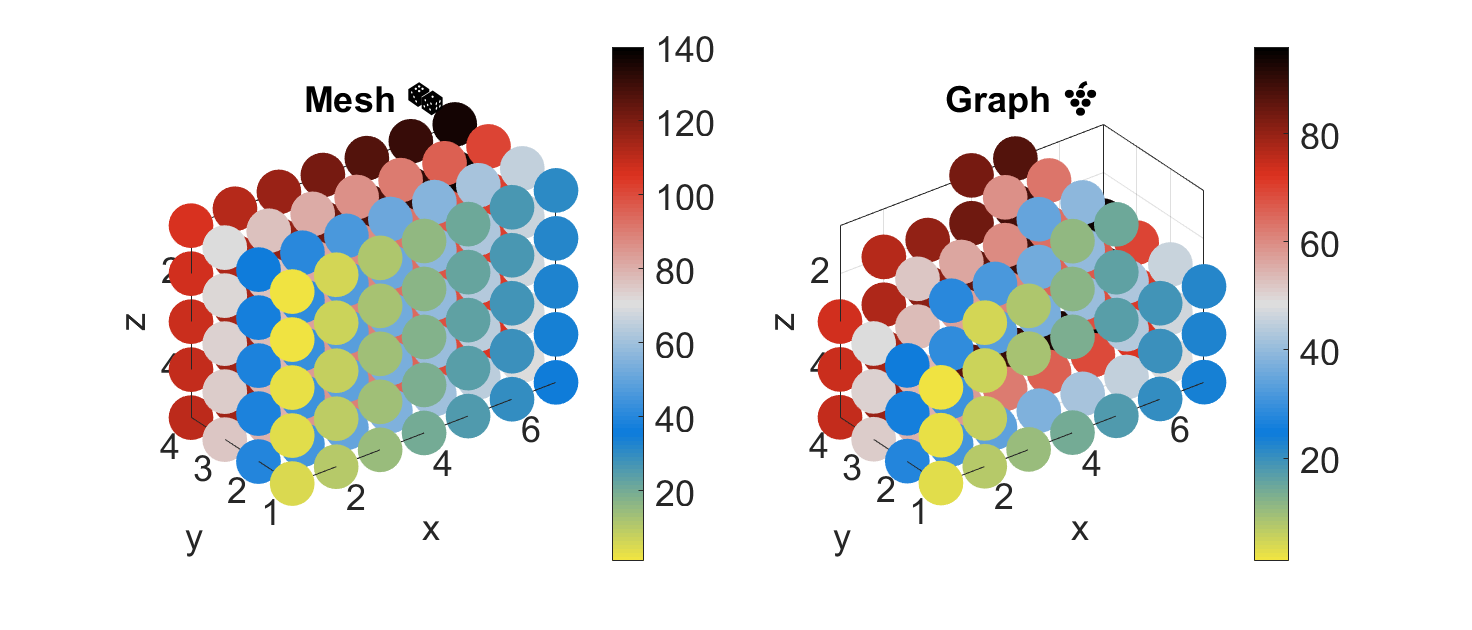
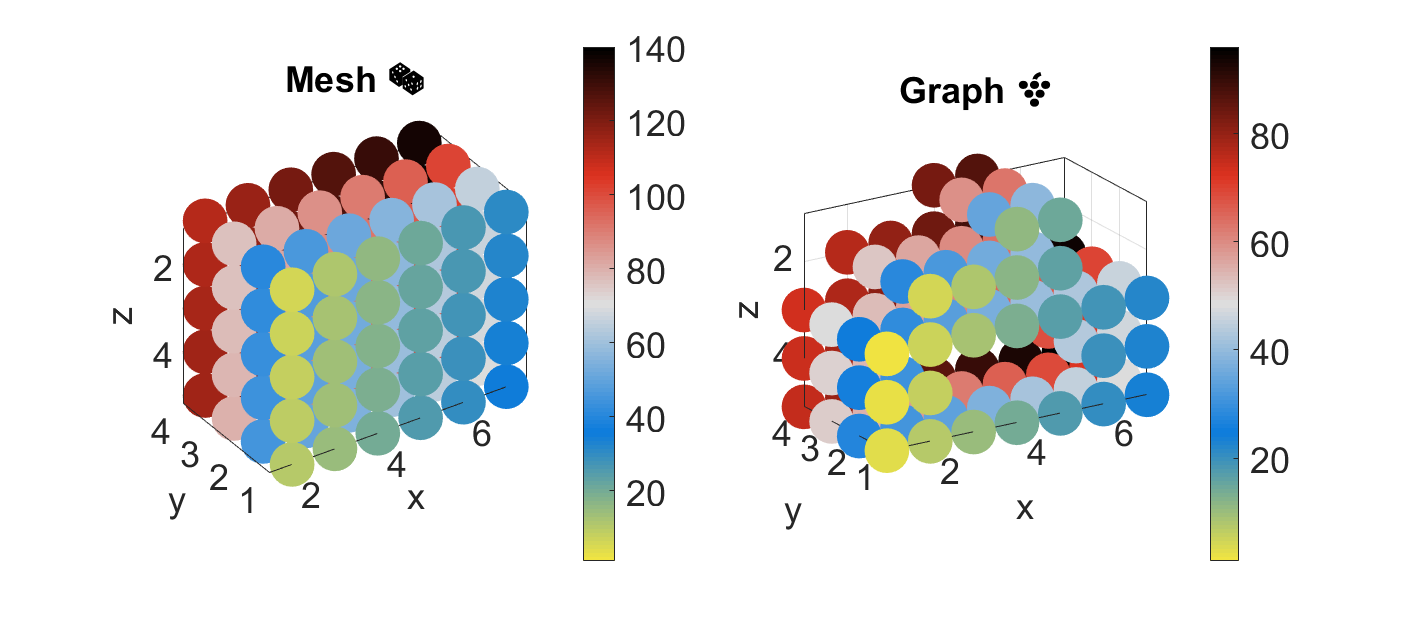
shh2

diff --git a/projects/graph-alg/mesher3d/mesher_demo3d.m b/projects/graph-alg/mesher3d/mesher_demo3d.m
@@ -79,7 +79,6 @@ addpath('src');
 % represent neighbors right, up, left, down, front and back.
 % ------------------------------------------------------------------------------
 % -- setup a simple example
-% crooked but hole is bigger
 ay1 = [0 0 0 1 1 0 0; 0 1 1 1 1 0 0; 1 1 1 1 1 1 1; 1 1 0 0 0 1 1; 1 1 1 1 1 1 1];
 ay2 = [0 0 0 1 1 0 0; 0 1 1 1 1 0 0; 1 1 1 1 1 1 1; 1 1 0 0 0 1 1; 1 1 1 1 1 1 1];
 ay3 = [0 0 0 1 1 0 0; 0 1 1 1 1 0 0; 1 1 1 1 1 1 1; 1 1 0 0 0 1 1; 1 1 1 1 1 1 1];
@@ -149,13 +148,25 @@ neigh_graph = neigh_graph_3d_(neigh_mesh,mesh2graph,n_g2m);
 neigh_type = neigh_type_3d_(a,nx,ny,nz,n_g2m,graph2mesh);
 % ------------------------------------------------------------------------------
 % get robin nodes
-[robin_xyz,robin_mesh,robin_graph] = robin_graph_3d_(n_g2m,nx,ny,nz,graph2mesh,mesh2graph,neigh_type);
-
-nprobin = size(robin_mesh,1);
+[robin_xyz,robin_mesh,robin_mesh_] = robins_3d_(n_g2m,nx,ny,nz,graph2mesh,neigh_type);
 % ------------------------------------------------------------------------------
 %
 %                              🎨 vis 🎨
 %
+% ------------------------------------------------------------------------------
+% translate to the graph 🍇 (optional)
+robin_graph = mesh2graph(robin_mesh(:,1));
+
+% just for vis
+nprobin_ = size(robin_mesh_,1);
+% translate to coordinates in the mesh 🎲
+robin_xyz_ = zeros(nprobin_,4,'uint32');
+for iprobin_=1:nprobin_
+  iyxz = robin_mesh_(iprobin_,1);
+  [ix,iy,iz] = get_ixyz(iyxz,nx,ny,nz);
+  robin_xyz_(iprobin_,1:3) = [iy,ix,iz];
+  robin_xyz_(iprobin_,4) = robin_mesh_(iprobin_,2);
+end
 % ------------------------------------------------------------------------------
 % this is the 3d graph 🍇 with indexing scheme
 amat3d_graph = zeros(n_g2m,4,'uint32');
@@ -183,7 +194,8 @@ figure;
 subplot(1,2,1);
 scatter3(amat3d_mesh(:,2),amat3d_mesh(:,1),amat3d_mesh(:,3),500*ones(ny*nx*nz,1),amat3d_mesh(:,4),'filled')
 colormap(rainbow2_cb(1));
-colorbar;
+hcb = colorbar;
+ylabel(hcb,'Index in mesh-cube');
 set(gca,'ZDir','reverse');
 axis image;
 axis tight;
@@ -196,7 +208,8 @@ simple_figure()
 subplot(1,2,2);
 scatter3(amat3d_graph(:,2),amat3d_graph(:,1),amat3d_graph(:,3),500*ones(n_g2m,1),amat3d_graph(:,4),'filled')
 colormap(rainbow2_cb(1));
-colorbar;
+hcb = colorbar;
+ylabel(hcb,'Index in graph');
 set(gca,'ZDir','reverse');
 axis image;
 axis tight;
@@ -207,9 +220,11 @@ title('Graph 🍇')
 simple_figure()
 
 figure;
-scatter3(robin_xyz(:,2),robin_xyz(:,1),robin_xyz(:,3),500*ones(nprobin,1),robin_xyz(:,4),'filled')
+subplot(1,2,1);
+scatter3(robin_xyz_(:,2),robin_xyz_(:,1),robin_xyz_(:,3),500*ones(nprobin_,1),robin_xyz_(:,4),'filled')
 colormap(rainbow2_cb(1));
-colorbar;
+hcb = colorbar;
+ylabel(hcb,'# of 🐦 entries');
 set(gca,'ZDir','reverse');
 axis image;
 axis tight;
@@ -261,17 +276,45 @@ simple_figure()
 % ------------------------------------------------------------------------------
 [I,J] = IJ_3d_(n_g2m,n_ij,n_IJ,neigh_graph);
 % ------------------------------------------------------------------------------
-% srcs_xyz = zeros(1,3,2,'uint32');
-% srcs_xyz(1,1,1) = 2;
-% srcs_xyz(1,2,1) = 2;
-% srcs_xyz(1,3,1) = 1;
+%                         🐦 α's for robin bc 🐦
+% ------------------------------------------------------------------------------
+dx=0.5; % m
+dy=0.5; % m
+dz=0.5; % m
+
+x=(0:(nx-1))*dx; x=x.';
+y=(0:(ny-1))*dy; y=y.';
+z=(0:(nz-1))*dz; z=z.';
+% ------------------------------------------------------------------------------
 %
-% srcs_xyz(1,1,2) = 3;
-% srcs_xyz(1,2,2) = 2;
-% srcs_xyz(1,3,2) = 1;
-% % ------------------------------------------------------------------------------
-% alphas = get_alphas(x,y,z,srcs_xyz,robin_xyz);
-% % ------------------------------------------------------------------------------
+% srcs_xyz  : (nsources) × (xyz) × (±) . indexes in the mesh cube 🎲
+srcs_xyz = zeros(1,3,2,'uint32');
+srcs_xyz(1,1,1) = 3; % x index of a
+srcs_xyz(1,2,1) = 2; % y index of a
+srcs_xyz(1,3,1) = 2; % z index of a
+
+srcs_xyz(1,1,2) = 6; % x index of b
+srcs_xyz(1,2,2) = 2; % y index of b
+srcs_xyz(1,3,2) = 3; % z index of b
+% ------------------------------------------------------------------------------
+alphas = get_alphas(x,y,z,srcs_xyz,robin_xyz);
+% ------------------------------------------------------------------------------
+nprobin= size(robin_xyz,1);
+
+subplot(1,2,2);
+scatter3(robin_xyz(:,1),robin_xyz(:,2),robin_xyz(:,3),500*ones(nprobin,1),alphas,'filled')
+colormap(rainbow2_cb(1));
+hcb = colorbar;
+ylabel(hcb,'α');
+set(gca,'ZDir','reverse');
+axis image;
+axis tight;
+xlabel('x')
+ylabel('y')
+zlabel('z')
+title('α 🐦')
+simple_figure()
+% ------------------------------------------------------------------------------
 
 %{
 % ------------------------------------------------------------------------------
@@ -279,7 +322,7 @@ simple_figure()
 %
 % V = V = dcipL3d(n_g2m,n_ij,n_IJ,I,J,neigh_type,graph2mesh,x,y,z,sigm,alphas);
 %
-% but as noted in src/div_c_grad.m this function needs to include more things!
+% but as noted in src/dcipL3d.m this function needs to include more things!
 % ------------------------------------------------------------------------------
 V = zeros(n_IJ,1);
 il = 1;

diff --git a/projects/graph-alg/mesher3d/src/get_alphas.m b/projects/graph-alg/mesher3d/src/get_alphas.m
@@ -26,33 +26,61 @@ function alphas = get_alphas(x,y,z,srcs_xyz,robin_xyz)
 % this function 'get_alphas' assumes 'srcs_xyz' is a set of srcs_xyz done at the
 % same moment (i.e. an 'ab' pair, but also supports multi-source schemes).
 % ------------------------------------------------------------------------------
-% srcs_xyz  : (nsources) × (xyz) × (±)
-% robin_xyz : (nprobin) × (xyz)
-%
-% both of these contain indexes in the mesh, NOT the graph.
+% srcs_xyz  : (nsources) × (xyz) × (±) . indexes in the mesh cube 🎲
+% robin_xyz : (nprobin) × (xyz)        . indexes in the mesh cube 🎲
+% ------------------------------------------------------------------------------
+% neighbor types. these are in the 4rth column of robin_xyz.
+%      2  6
+%      | /
+% 3 -- i -- 1
+%    / |
+%   5  4
+% the numbers 1, 2, 3, 4, 5 and 6,
+% represent neighbors right, up, left, down, front and back.
 % ------------------------------------------------------------------------------
 nprobin= size(robin_xyz,1);
+nsource= size(srcs_xyz,1);
+
 alphas = zeros(nprobin,1);
 for iprobin=1:nprobin
-  ipx = robin_xyz(iprobin,1);
-  ipy = robin_xyz(iprobin,2);
-  ipz = robin_xyz(iprobin,3);
+  irobx = robin_xyz(iprobin,1);
+  iroby = robin_xyz(iprobin,2);
+  irobz = robin_xyz(iprobin,3);
+
+  irob_ = robin_xyz(iprobin,4);
 
   alpha_r = 0;
   alpha_cos=0;
   for isource=1:nsource
+    % ---
     % ⚪ positive source
     isx = srcs_xyz(isource,1,1);
     isy = srcs_xyz(isource,2,1);
     isz = srcs_xyz(isource,3,1);
-    radi_po = sqrt( (x(isx)-x(ipx))^2 + (y(isy)-y(ipy))^2 + (z(isz)-z(ipz))^2 );
-    ca_po   = abs(z(isz) - z(ipz));
+    radi_po = sqrt( (x(isx)-x(irobx))^2 + (y(isy)-y(iroby))^2 + (z(isz)-z(irobz))^2 );
+
+    % adjacent side depends on the kind of neighbor.
+    if (irob_==1 || irob_==3 || irob_==5 || irob_==6)
+      ca_po = sqrt( (x(isx)-x(irobx))^2 + (y(isy)-y(iroby))^2 );
+    end
+    if (irob_==2 || irob_==4)
+      ca_po = abs(z(isz) - z(irobz));
+    end
+    % ---
     % ⚫ negative source
     isx = srcs_xyz(isource,1,2);
     isy = srcs_xyz(isource,2,2);
     isz = srcs_xyz(isource,3,2);
-    radi_ne = sqrt( (x(isx)-x(ipx))^2 + (y(isy)-y(ipy))^2 + (z(isz)-z(ipz))^2 );
-    ca_ne   = abs(z(isz) - z(ipz));
+    radi_ne = sqrt( (x(isx)-x(irobx))^2 + (y(isy)-y(iroby))^2 + (z(isz)-z(irobz))^2 );
+
+    % adjacent side depends on the kind of neighbor.
+    if (irob_==1 || irob_==3 || irob_==5 || irob_==6)
+      ca_ne = sqrt( (x(isx)-x(irobx))^2 + (y(isy)-y(iroby))^2 );
+    end
+    if (irob_==2 || irob_==4)
+      ca_ne = abs(z(isz) - z(irobz));
+    end
+    % ---
     % α = Σ ∓ r(s±) ⋅ Σ ∓ ca(s±) / r(s±)^3
     alpha_r  = alpha_r + radi_ne - radi_po;
     alpha_cos= alpha_cos + (ca_ne/radi_ne^3) - (ca_po/radi_po^3);

diff --git a/projects/graph-alg/mesher3d/src/robins_3d_.m b/projects/graph-alg/mesher3d/src/robins_3d_.m
@@ -1,4 +1,4 @@
-function [robin_xyz,robin_mesh,robin_graph] = robin_graph_3d_(n_g2m,nx,ny,nz,graph2mesh,mesh2graph,neigh_type)
+function [robin_xyz,robin_mesh,robin_mesh_] = robins_3d_(n_g2m,nx,ny,nz,graph2mesh,neigh_type)
 % diego domenzain
 % ? 2021
 % ------------------------------------------------------------------------------
@@ -27,7 +27,12 @@ function [robin_xyz,robin_mesh,robin_graph] = robin_graph_3d_(n_g2m,nx,ny,nz,gra
 %              left, down, front neighbors are robin.
 % robin_xyz  : robin nodes in the mesh cube 🎲. of size nprobin × 4.
 %              the 4rth column is the second column of robin_mesh.
-% robin_graph: robin nodes in the graph 🍇. of size nprobin × 1.
+% robin_mesh_: robin nodes in the mesh 🎲. of size nprobin_ × 2.
+%              this one doesnt have repetitions. the second column counts
+%              how many entries are repeated in robin_mesh.
+% ------------------------------------------------------------------------------
+% robin_graph: robin nodes in the graph 🍇. of size nprobin × 1:
+%                                robin_graph = mesh2graph(robin_mesh(:,1));
 % ------------------------------------------------------------------------------
 % ◀
 % neigh_type : row indexes are graph nodes.
@@ -125,15 +130,39 @@ for i_g2m=1:n_g2m
   end
 end
 % ------------------------------------------------------------------------------
-% translate to the graph 🍇
-robin_graph = mesh2graph(robin_mesh(:,1));
+robin_node_=0;
+nprobin_   =0;
+for iprobin=1:nprobin
+  robin_node = robin_mesh(iprobin,1);
+  if (robin_node>robin_node_)
+    nprobin_ = nprobin_ + 1;
+  end
+  robin_node_=robin_node;
+end
+
+robin_mesh_=zeros(nprobin_,2,'uint32');
+robin_node_=0;
+robin_count=1;
+iprobin_=0;
+for iprobin=1:nprobin
+  robin_node = robin_mesh(iprobin,1);
+  if (robin_node>robin_node_)
+    iprobin_ = iprobin_ + 1;
+    robin_count=1;
+  else
+    robin_count=robin_count+1;
+  end
+  robin_mesh_(iprobin_,1) = robin_node;
+  robin_mesh_(iprobin_,2) = robin_count;
+  robin_node_=robin_node;
+end
 % ------------------------------------------------------------------------------
 % translate to coordinates in the mesh 🎲
 robin_xyz = zeros(nprobin,4,'uint32');
 for iprobin=1:nprobin
   iyxz = robin_mesh(iprobin,1);
   [ix,iy,iz] = get_ixyz(iyxz,nx,ny,nz);
-  robin_xyz(iprobin,1:3) = [iy,ix,iz];
+  robin_xyz(iprobin,1:3) = [ix,iy,iz];
   robin_xyz(iprobin,4) = robin_mesh(iprobin,2);
 end
 end

diff --git a/projects/graph-alg/mesher3d/src/dcipL3d.m b/projects/graph-alg/mesher3d/src/dcipL3d.m
@@ -1,17 +1,6 @@
-function V = dcipL3d(n_g2m,n_ij,n_IJ,I,J,neigh_type,graph2mesh,x,y,z,sigm,alphas)
+function V = dcipL3d(n_g2m,n_ij,n_IJ,I,J,neigh_type,graph2mesh,mesh2graph,x,y,z,sigm,alphas)
 % diego domenzain
 % august 2021
-% ------------------------------------------------------------------------------
-
-
-iyxz = graph2mesh(J(il))
-iyxz_= graph2mesh(J(ii))
-[dx,dy,dz]    = deltas(iyxz,iyxz_nei,x,y,z)
-[ix,iy,iz]    = get_ixyz(iyxz,nx,ny,nz);
-[ix_,iy_,iz_] = get_ixyz(iyxz_nei,nx,ny,nz)
-
-% diego domenzain
-% August 2021 @ Aarhus University
 % ------------------------------------------------------------------------------
 %
 % discretization of
@@ -26,6 +15,13 @@ iyxz_= graph2mesh(J(ii))
 % • Robin boundary conditions are NOT implemented,
 %   only Neumann (no-flow) are implemented.
 % ------------------------------------------------------------------------------
+% iyxz = graph2mesh(J(il))
+% iyxz_= graph2mesh(J(ii))
+% [dx,dy,dz]    = deltas(iyxz,iyxz_nei,x,y,z)
+% [ix,iy,iz]    = get_ixyz(iyxz,nx,ny,nz);
+% [ix_,iy_,iz_] = get_ixyz(iyxz_nei,nx,ny,nz)
+% ------------------------------------------------------------------------------
+
 V = zeros(n_IJ,1);
 il = 1;
 il_= 0;

diff --git a/projects/graph-alg/mesher3d/README.md b/projects/graph-alg/mesher3d/README.md
@@ -149,5 +149,5 @@ I leave those for another project. Here, I show ```L``` assuming  σ = Δx = Δy
 
 ### Tiny example (*Matlab*)
 
-[![](../pics/mesh.png)](./)
+[![](../pics/mesh-graph-3d.png)](./)
 
